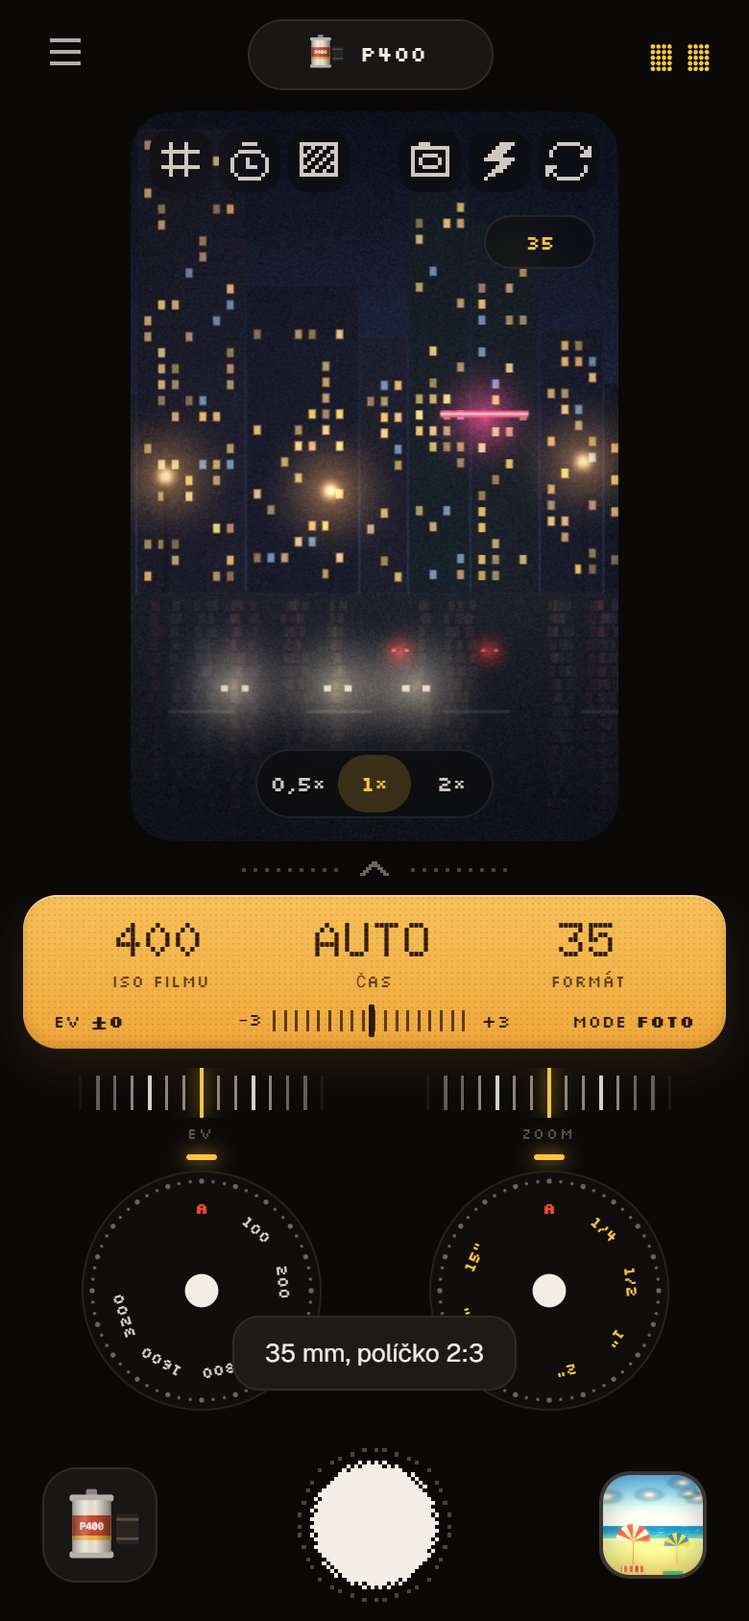
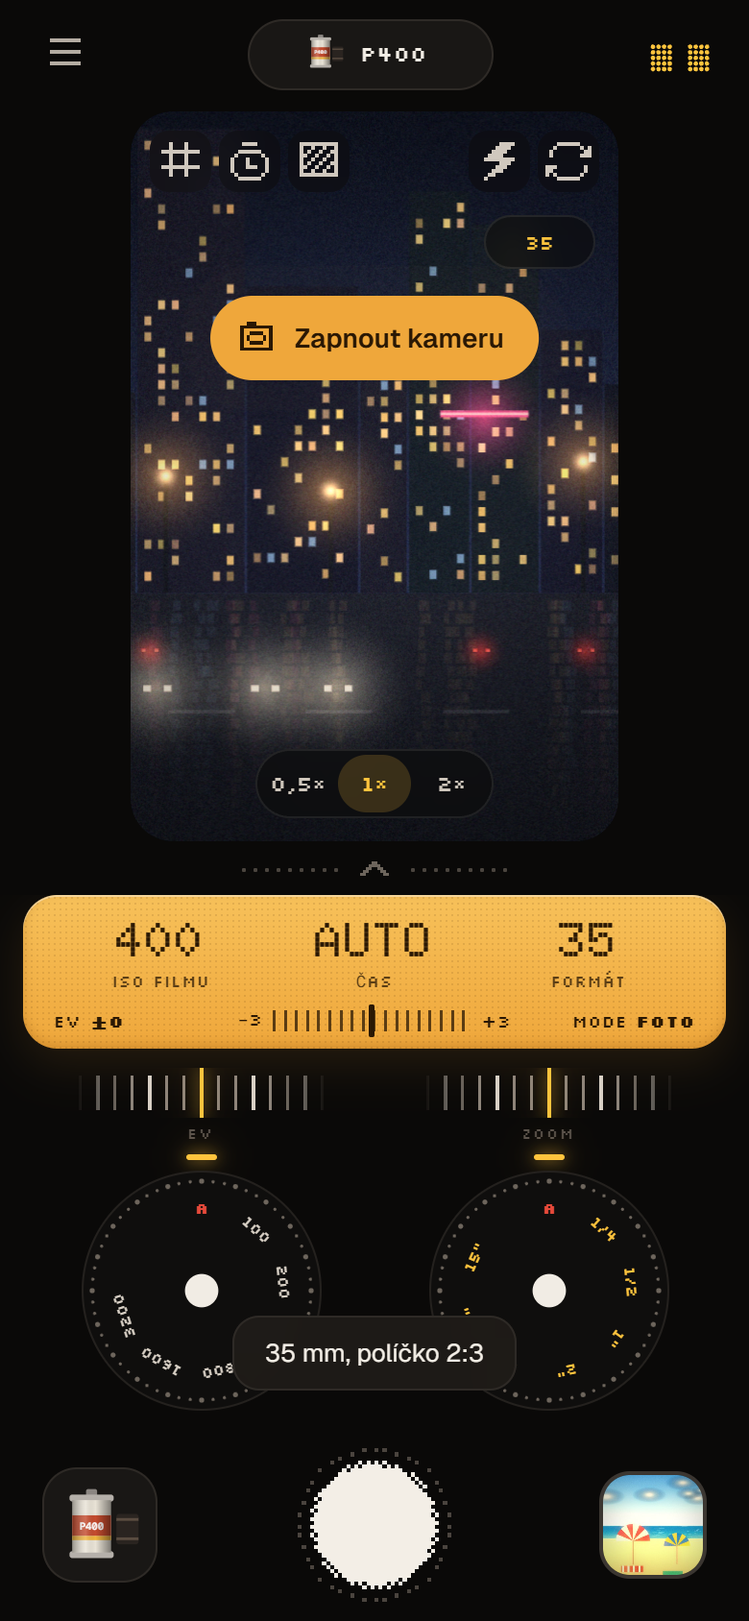
Náhled 0.7.1: méně paměti, plynulejší hloubka, úpravy blobu a kamery
- fotky v paměti max 2048 px, export z originálu (iPhone 13 padal)
- hloubka: bez 3D, na pomalém telefonu přepočet po puštění posuvníku s načítáním, skutečné fáze načítání modelu, trvalé úložiště
- pryč rám Negativ a Datumovka
- blob: paleta jen po filmu, kostka neposkakuje, dissolve bez pruhu (šum jako obrázek), Text zap/vyp, Uložit blob, Export
- spodní lišta na iPhonu přes celou výšku (bez brady)
- Úpravy bez nápovědy, výrazné tlačítko Zapnout kameru

diff --git a/docs/preview/index.html b/docs/preview/index.html
@@ -82,7 +82,8 @@ a{color:var(--amber)}
   html,body{background:#000}
   .shell{display:block;position:fixed;inset:0}
   .nav{display:none}
-  .stage{position:fixed;inset:0;height:auto;background:#000}
+  .stage{position:fixed;left:0;right:0;top:0;height:100vh;height:100lvh;background:#000}
+  .shell{height:100vh;height:100lvh}
   .device{left:0;top:0;width:100%!important;height:100%!important;transform:none!important}
   .bezel,.island,.status{display:none}
   .phone{border-radius:0}
@@ -144,6 +145,9 @@ a{color:var(--amber)}
 .sw2{width:28px;height:28px;border-radius:8px;flex:none;box-shadow:inset 0 0 0 1px rgba(255,255,255,.12);position:relative;overflow:hidden}
 .sw2.on{box-shadow:0 0 0 2px var(--body),0 0 0 4px var(--fg)}
 .sw2 input{position:absolute;inset:0;opacity:0}
+.campill{position:absolute;left:50%;top:96px;transform:translateX(-50%);z-index:5;display:flex;align-items:center;gap:10px;height:44px;padding:0 18px 0 14px;border-radius:999px;background:var(--lcd);color:var(--lcd-ink);font-weight:600;font-size:14px;white-space:nowrap;box-shadow:0 0 0 0 rgba(255,196,61,.55);animation:campulse 2.2s ease-out infinite}
+.campill .px{width:20px;height:20px}
+@keyframes campulse{0%{box-shadow:0 0 0 0 rgba(255,196,61,.5)}70%{box-shadow:0 0 0 16px rgba(255,196,61,0)}100%{box-shadow:0 0 0 0 rgba(255,196,61,0)}}
 .cambanner{position:absolute;left:50%;top:10px;transform:translateX(-50%);z-index:5;display:flex;align-items:center;gap:10px;padding:5px 5px 5px 14px;border-radius:999px;background:rgba(10,9,8,.75);border:1px solid rgba(255,196,61,.4);font-size:12px;white-space:nowrap}
 .cambanner button{height:28px;padding:0 12px;border-radius:999px;background:var(--lcd);color:var(--lcd-ink);font-weight:600;font-size:12px}
 /* správce filmů */
@@ -352,8 +356,14 @@ a{color:var(--amber)}
 .ecanvas canvas{display:block;width:100%;height:100%}
 #eGlow,#pcGlow{position:absolute;inset:0;width:100%;height:100%;display:none}
 #eDate{position:absolute;left:0;top:0;pointer-events:none}
+.eload{position:absolute;left:50%;top:50%;transform:translate(-50%,-50%) scale(.9);z-index:4;display:flex;align-items:center;gap:10px;height:40px;padding:0 16px;border-radius:999px;background:rgba(10,9,8,.72);backdrop-filter:blur(10px);-webkit-backdrop-filter:blur(10px);font:11px var(--f-mono);letter-spacing:.14em;text-transform:uppercase;color:#d0c8be;opacity:0;pointer-events:none;transition:opacity .15s,transform .2s}
+.eload.on{opacity:1;transform:translate(-50%,-50%) scale(1)}
+.eload i{width:14px;height:14px;border-radius:50%;border:2px solid rgba(255,196,61,.25);border-top-color:var(--amber);animation:spin .7s linear infinite}
+@keyframes spin{to{transform:rotate(360deg)}}
 .dprog{height:6px;border-radius:3px;background:var(--line);overflow:hidden;flex:1}
 .dprog i{display:block;height:100%;background:var(--amber);width:0;transition:width .2s}
+.dprog.ind i{width:35%!important;animation:dind 1.1s ease-in-out infinite alternate}
+@keyframes dind{from{transform:translateX(-20%)}to{transform:translateX(205%)}}
 .fxp .note{font-size:11.5px;color:var(--mute);line-height:1.45;margin:0}
 .fxp .go{height:40px;padding:0 16px;border-radius:12px;background:var(--lcd);color:var(--lcd-ink);font-weight:600;font-size:13px}
 .ecanvas.framed{background:#0a0a0d;border-radius:0;box-shadow:none}
@@ -540,7 +550,7 @@ input[type=range]:hover::-webkit-slider-thumb{background:#fff}
 .bpresets button{flex:none;height:52px;border-radius:14px;background:var(--panel);border:1px solid var(--line);display:flex;align-items:center;gap:8px;padding:0 12px 0 6px;font-family:var(--f-mono);font-size:10.5px;color:#cfc7bc}
 .bpresets svg{width:32px;height:40px;border-radius:7px;flex:none}
 .bpresets .save{padding:0 14px;color:var(--amber);border-color:rgba(255,196,61,.4)}
-.bbar{flex:none;display:flex;justify-content:center;gap:10px;padding-top:12px;border-top:1px solid #1a1b1f;background:#0B0C0E}
+.bbar{flex:none;display:flex;justify-content:center;align-items:center;gap:8px;padding-top:12px;border-top:1px solid #1a1b1f;background:#0B0C0E}
 .pbtn.sm{padding:8px 14px}
 .pbtn{padding:11px 18px;border-radius:14px;background:var(--lcd);color:var(--lcd-ink);font-weight:600;font-size:13px}
 .pbtn.ghost{background:transparent;color:var(--fg);box-shadow:inset 0 0 0 1.5px #3d3731;font-weight:500}
@@ -597,7 +607,7 @@ input[type=range]:hover::-webkit-slider-thumb{background:#fff}
 <body>
 <div class="shell" id="shell">
   <aside class="nav">
-    <div class="brand">QAMERA<small>Náhled 0.7</small></div>
+    <div class="brand">QAMERA<small>Náhled 0.7.1</small></div>
     <div>
       <div class="navlabel">Zobrazení</div>
       <div class="seg" id="viewSeg"><button class="on" data-v="m">MOBIL 390×844</button><button data-v="pc">PC 1440×900</button></div>
@@ -638,6 +648,7 @@ input[type=range]:hover::-webkit-slider-thumb{background:#fff}
             <button class="fmtbadge" id="fmtBadge" aria-label="Přepnout formát">3:4</button>
             <div class="fmtbadge dbl" id="dblBadge" hidden>DOUBLE 1/2</div>
             <div class="hud" id="hud" hidden></div>
+            <button class="campill" id="camPill" hidden><span class="px-wrap" data-ic="camera"></span>Zapnout kameru</button>
             <div class="cambanner" id="camBanner" hidden><span>Druhá expozice pro Double</span><button id="camBannerBack">Zpět</button></div>
             <div class="pills">
               <span class="pill" id="pIso">ISO 400</span>
@@ -772,14 +783,13 @@ input[type=range]:hover::-webkit-slider-thumb{background:#fff}
           <div class="bscroll">
             <div class="bcard" id="bCard"><svg id="bSvg" viewBox="0 0 100 125" preserveAspectRatio="none"></svg><div class="lbl" id="bLbl"><span id="bL" contenteditable="true" spellcheck="false"></span><span id="bR" contenteditable="true" spellcheck="false"></span></div></div>
             <div class="palette" id="bPal"></div>
-            <div class="brow"><div class="seg" id="bPalSeg"><button data-p="pre">PALETA PŘED</button><button data-p="post" class="on">PO FILMU</button></div></div>
             <div class="brow"><button class="pbtn ghost sm" id="bInv">Obrátit</button><div class="seg" id="bBlend"><button data-b="normal" class="on">NORMÁL</button><button data-b="screen">SCREEN</button><button data-b="glow">GLOW</button></div></div>
             <div class="bsl"><label class="srow"><span>Dissolve</span><input type="range" id="bDis" min="0" max="100" value="0" data-def="0"><output>0</output></label>
               <label class="srow"><span>Velikost</span><input type="range" id="bSize" min="40" max="160" value="100" data-def="100"><output id="bSizeO">100</output></label></div>
             <div><div class="bh">TVARY</div><div class="shapes hs" id="bShapes"></div></div>
             <div><div class="bh">PRESETY</div><div class="bpresets hs" id="bPresets"></div></div>
           </div>
-          <div class="bbar pb"><button class="pbtn ghost" id="bPaper">Tečky: zap</button><button class="pbtn" id="bShare">Sdílet kartu</button></div>
+          <div class="bbar pb"><button class="pbtn ghost" id="bText">Text: zap</button><button class="pbtn ghost" id="bSave">Uložit blob</button><button class="pbtn" id="bShare">Export</button></div>
         </section>
 
         <!-- SPRÁVCE FILMŮ -->
@@ -792,7 +802,7 @@ input[type=range]:hover::-webkit-slider-thumb{background:#fff}
         <section class="scr pt" id="s-about" hidden>
           <div class="top"><button class="ib" data-back aria-label="Zpět" data-ic="back"></button><span class="title">O appce</span><span style="width:40px"></span></div>
           <div class="about">
-            <div class="hero"><div class="lens"><svg class="eyes" id="aboutEyes" viewBox="14 24 92 72"></svg></div><h2>QAMERA</h2><div class="ver">NÁHLED 0.7</div></div>
+            <div class="hero"><div class="lens"><svg class="eyes" id="aboutEyes" viewBox="14 24 92 72"></svg></div><h2>QAMERA</h2><div class="ver">NÁHLED 0.7.1</div></div>
             <div class="card"><h3>Poděkování</h3>
               <p><a href="https://github.com/thetechgeekko/Spektrafilm-android" target="_blank" rel="noopener">Spektrafilm for Android</a> by <b>Akshay Sharma</b></p>
               <p>Film modeling powered by <a href="https://github.com/andreavolpato/spektrafilm" target="_blank" rel="noopener">spektrafilm</a> (Andrea Volpato)</p>
@@ -1150,7 +1160,7 @@ async function liveOn() {
 }
 function liveStop() { if (CAM.stream) CAM.stream.getTracks().forEach(t => t.stop()); CAM.stream = null; CAM.track = null; }
 function liveOff() { liveStop(); CAM.live = false; CAM.deviceId = null; CAM.ultra = false; LIVE.w = 480; LIVE.h = 640; LIVE.canvas = mk(480, 640); updLive(); }
-function updLive() { $('#liveBtn').hidden = CAM.live; }
+function updLive() { $('#liveBtn').hidden = CAM.live || !store.get('cam', false) && !store.get('camAsked', false); $('#camPill').hidden = CAM.live || store.get('camAsked', false); }
 async function setTorch(on) { if (!CAM.track || !CAM.caps.torch) return false; try { await CAM.track.applyConstraints({ advanced: [{ torch: on }] }); return true; } catch { return false; } }
 function renderCamInfo() {
   const el = $('#camInfo'); if (!el) return;
@@ -1208,7 +1218,7 @@ void main(){
     float coc = clamp((abs(dep - uFocus) - .035) * 2.6, 0., 1.) * uDAmt;
     if (coc > .004) { vec2 ts = vec2(textureSize(uTex,0)); vec2 rad = vec2(ts.y/ts.x, 1.) * coc * .05; float lod = max(0., log2(coc * .05 * ts.y / 7.));
       vec3 acc = vec3(0.); float ws = 0.;
-      for (int i = 0; i < 40; i++) { float fi = float(i), rr = sqrt((fi + .5) / 40.), a = fi * 2.39996; vec2 sp = uv + vec2(cos(a), sin(a)) * rr * rad;
+      for (int i = 0; i < 28; i++) { float fi = float(i), rr = sqrt((fi + .5) / 28.), a = fi * 2.39996; vec2 sp = uv + vec2(cos(a), sin(a)) * rr * rad;
         vec3 sc = textureLod(uTex, sp, lod).rgb; float sd = textureLod(uDepth, sp, 0.).r; float w = (1. + pow(luma(sc), 5.) * 10.) * (sd > dep + .12 ? .25 : 1.); acc += sc * w; ws += w; }
       col = mix(col, acc / ws, smoothstep(0., .18, coc)); } }
   if (uSharp > 0.) { vec2 px = 1./vec2(textureSize(uTex,0)); vec3 bl = (texture(uTex,uv+vec2(px.x,0)).rgb+texture(uTex,uv-vec2(px.x,0)).rgb+texture(uTex,uv+vec2(0,px.y)).rgb+texture(uTex,uv-vec2(0,px.y)).rgb)*.25; col += (col-bl)*uSharp*1.5; }
@@ -1979,13 +1989,15 @@ let uidN = 0; const uid = () => Date.now() * 10 + (uidN++ % 10);
 const DBP = { p: null };
 function idb() { return DBP.p || (DBP.p = new Promise((res, rej) => { const r = indexedDB.open('qamera', 1); r.onupgradeneeded = () => r.result.createObjectStore('photos', { keyPath: 'id' }); r.onsuccess = () => res(r.result); r.onerror = () => rej(r.error); })); }
 function keep(ph) { ph.saved = true; dbPut(ph); return ph; }
-async function dbPut(ph) { if (!ph || !ph.saved) return; try { if (!ph.blob) ph.blob = await new Promise(r => ph.src.toBlob(r, 'image/jpeg', .93)); const db = await idb();
+const WORK = 2048; // pracovní rozlišení v paměti – plné 12 Mpx fotky by iPhone neudržel
+function shrink(c, m = WORK) { const k = m / Math.max(c.width, c.height); if (k >= 1) return c; const o = mk(Math.round(c.width * k), Math.round(c.height * k)); o.getContext('2d').drawImage(c, 0, 0, o.width, o.height); return o; }
+async function dbPut(ph) { if (!ph || !ph.saved) return; try { if (!ph.blob) ph.blob = await new Promise(r => ph.src.toBlob(r, 'image/jpeg', .93)); if (Math.max(ph.src.width, ph.src.height) > WORK) { ph.src = shrink(ph.src); ph._dxKey = null; } const db = await idb();
   db.transaction('photos', 'readwrite').objectStore('photos').put({ id: ph.id, kind: ph.kind, tags: ph.tags, date: +ph.date, P: ph.P, blob: ph.blob, depth: ph.depthBlob || null }); } catch {} }
 async function dbDel(id) { try { const db = await idb(); db.transaction('photos', 'readwrite').objectStore('photos').delete(id); } catch {} }
 async function dbLoad() {
   try { const db = await idb(), all = await new Promise((res, rej) => { const r = db.transaction('photos').objectStore('photos').getAll(); r.onsuccess = () => res(r.result); r.onerror = () => rej(r.error); });
     all.sort((a, b) => a.date - b.date);
-    for (const it of all) { const bmp = await createImageBitmap(it.blob), c = mk(bmp.width, bmp.height); c.getContext('2d').drawImage(bmp, 0, 0);
+    for (const it of all) { const bmp = await createImageBitmap(it.blob), k = Math.min(1, WORK / Math.max(bmp.width, bmp.height)), c = mk(Math.round(bmp.width * k), Math.round(bmp.height * k)); c.getContext('2d').drawImage(bmp, 0, 0, c.width, c.height); bmp.close && bmp.close();
       if (it.roll) { const sh = { id: it.id, src: c, P: Object.assign(DEF(), it.P), date: new Date(it.date), roll: it.roll, blob: it.blob }; // snímek z jednorázovky / zamčené role
         if (it.roll === 'active' && S.dispo) S.dispo.shots.push(sh); else { const ro = ROLLS.find(r => r.id === it.roll); if (ro) ro.shots.push(sh); } continue; }
       const ph = addPhoto(c, Object.assign(DEF(), it.P), it.kind, it.tags, false, it.id); ph.date = new Date(it.date); ph.saved = true; ph.blob = it.blob; if (it.kind === 'arch') ph.film = 'ARCH';
@@ -2083,7 +2095,7 @@ async function importFiles(files) {
   for (const f of files) {
     try { const url = URL.createObjectURL(f), img = new Image(); img.src = url; await img.decode();
       const k = Math.min(1, 2048 / Math.max(img.naturalWidth, img.naturalHeight)), c = mk(Math.round(img.naturalWidth * k), Math.round(img.naturalHeight * k)); c.getContext('2d').drawImage(img, 0, 0, c.width, c.height); URL.revokeObjectURL(url);
-      const P = DEF(); P.film = S.film; const ph = addPhoto(c, P, 'import', ['import', 'moje'], true, uid()); ph.date = new Date(f.lastModified || Date.now()); keep(ph); n++; } catch {}
+      const P = DEF(); P.film = S.film; const ph = addPhoto(c, P, 'import', ['import', 'moje'], true, uid()); ph.date = new Date(f.lastModified || Date.now()); if (/^image\/(jpeg|png|webp)$/.test(f.type)) ph.blob = f; keep(ph); n++; } catch {}
   }
   if (n) { filterGallery(); $('#galThumb').src = S.photos[0].thumb; toast(n === 1 ? 'Fotka přidaná s filmem ' + S.film : `${n} fotek přidáno s filmem ${S.film}`); }
   else toast('Fotku se nepodařilo načíst');
@@ -2161,7 +2173,7 @@ function showArch(photos, title, film, opt = {}) {
 }
 /* prohlížeč obrázku: pinch / kolečko = zoom, tažení = posun, dvojťuk = 1× / 2,5× */
 function viewImage(src, ph) {
-  const el = document.createElement('div'); el.className = 'zoomv'; el.innerHTML = `<canvas></canvas><button class="zx" aria-label="Zavřít">${iconSVG('x')}</button>${ph ? '<button class="zsh">Uložit / sdílet</button>' : ''}`;
+  const el = document.createElement('div'); el.className = 'zoomv'; el.innerHTML = `<canvas></canvas><button class="zx" aria-label="Zavřít">${iconSVG('x')}</button>${ph ? '<button class="zsh">Export</button>' : ''}`;
   $('#phone').appendChild(el); const cv = $('canvas', el); cv.width = src.width; cv.height = src.height; cv.getContext('2d').drawImage(src, 0, 0);
   const W = el.clientWidth, H = el.clientHeight, k0 = Math.min(W / src.width, H / src.height); let z = { s: k0, x: (W - src.width * k0) / 2, y: (H - src.height * k0) / 2 };
   const apply = () => cv.style.transform = `translate(${z.x}px,${z.y}px) scale(${z.s})`; apply();
@@ -2187,8 +2199,9 @@ function viewImage(src, ph) {
    ===================================================================== */
 let edE, edRaf = 0, before = false;
 const PANEL_H = 186;
+function cleanP(P) { if (P.frame && !FRAMES[P.frame]) P.frame = null; P.date = null; if (P.depth && P.depth.mode === 'par') P.depth.mode = 'bokeh'; return P; } // zrušené efekty
 function openEditor(ph, fromImg) {
-  stopPar(); S.cur = ph; S.fxOpen = null; S.P = JSON.parse(JSON.stringify(ph.P)); S.cur._last = JSON.parse(JSON.stringify(ph.P)); S.hist = []; S.fut = [];
+  stopPar(); S.cur = ph; S.fxOpen = null; cleanP(ph.P); S.P = JSON.parse(JSON.stringify(ph.P)); S.cur._last = JSON.parse(JSON.stringify(ph.P)); S.hist = []; S.fut = [];
   edE.setSource(srcOf(ph, S.P));
   go('editor');
   setTab(S.tab, true);
@@ -2219,7 +2232,8 @@ function layoutEditor() {
 }
 function edOpts(extra = {}) { const cr = S.P.crop; return { bypass: before, zoom: cr.s, offX: cr.x, offY: cr.y, rot: cr.rot * Math.PI / 180, transfer: S.P.tr ? transferFor() : null, depth: S.cur && S.cur.depth, par: S.par, ...extra }; }
 function renderEd(now) {
-  const run = () => { edRaf = 0; if (!S.cur) return; edE.render(S.P, edOpts()); if (S.P.frame && S._fr && !S._parAnim) { const wr = $('#eWrap'); frameBg($('#eGlow'), edE.c, wr.clientWidth, wr.clientHeight, S._fr, 0, S.P, S.cur); } dateOverlay(); if (S.adv) drawHist(); if (S.view === 'pc') renderPc(); };
+  const run = () => { edRaf = 0; if (!S.cur) return; const t0 = performance.now(); edE.render(S.P, edOpts());
+    if (S.P.depth && S.cur.depth && S.P.depth.mode !== 'map') { const g = edE.gl; g.readPixels(0, 0, 1, 1, g.RGBA, g.UNSIGNED_BYTE, new Uint8Array(4)); const ms = performance.now() - t0; S.depthMs = S.depthMs ? S.depthMs * .6 + ms * .4 : ms; } if (S.P.frame && S._fr && !S._parAnim) { const wr = $('#eWrap'); frameBg($('#eGlow'), edE.c, wr.clientWidth, wr.clientHeight, S._fr, 0, S.P, S.cur); } dateOverlay(); if (S.adv) drawHist(); if (S.view === 'pc') renderPc(); };
   if (now) { cancelAnimationFrame(edRaf); run(); return; }
   if (edRaf) return; edRaf = requestAnimationFrame(run);
 }
@@ -2245,7 +2259,7 @@ function glowFrame(cv, src, cw, ch, rect, scale) {
   const rg = g.createRadialGradient(ix + iw / 2, iy + ih * .55, M * .5, ix + iw / 2, iy + ih * .55, Math.hypot(W, H) * .6); rg.addColorStop(0, 'rgba(8,8,10,0)'); rg.addColorStop(1, 'rgba(8,8,10,.75)'); g.fillStyle = rg; g.fillRect(0, 0, W, H);
 }
 /* geometrie rámu: rozměr plátna (vejde se do MW × MH) a místo fotky v něm */
-const FRAMES = { glow: { l: 'Glow', pad: .72 }, neg: { l: 'Negativ', pad: .8 }, inst: { l: 'Instant', pad: .88 } };
+const FRAMES = { glow: { l: 'Glow', pad: .72 }, inst: { l: 'Instant', pad: .88 } };
 function frameGeom(P, par, MW, MH) {
   const fo = P.fo || { pad: FRAMES[P.frame].pad, ar: 0 }; let A, rel;
   if (P.frame === 'inst') { const m = (1 - fo.pad) / 2 / fo.pad, cw = 1 + 2 * m, chh = 1 / par + m * 4.2; A = cw / chh; rel = { x: m / cw, y: m / chh, w: 1 / cw, h: 1 / par / chh }; } // instantní fotka: dole široký okraj
@@ -2309,8 +2323,10 @@ async function exportCanvas(c, name) {
   try { if (isMobile() && navigator.canShare && navigator.canShare({ files: [file] })) { await navigator.share({ files: [file], title: 'Qamera' }); return toast('Hotovo'); } } catch (e) { if (e && e.name === 'AbortError') return; }
   const a = document.createElement('a'); a.href = URL.createObjectURL(blob); a.download = name; document.body.appendChild(a); a.click(); setTimeout(() => { URL.revokeObjectURL(a.href); a.remove(); }, 1500); toast('Fotka stažená');
 }
-function renderFull(ph, P) {
-  const src = srcOf(ph, P), ar = P.crop.ar || src.width / src.height, max = Math.min(util.e.gl.getParameter(util.e.gl.MAX_TEXTURE_SIZE), 4096);
+async function renderFull(ph, P) {
+  let src = srcOf(ph, P);
+  if (src === ph.src && ph.blob) { try { const bm = await createImageBitmap(ph.blob), k = Math.min(1, 4096 / Math.max(bm.width, bm.height)), c = mk(Math.round(bm.width * k), Math.round(bm.height * k)); c.getContext('2d').drawImage(bm, 0, 0, c.width, c.height); bm.close && bm.close(); src = c; } catch {} } // export z originálu
+  const ar = P.crop.ar || src.width / src.height, max = Math.min(util.e.gl.getParameter(util.e.gl.MAX_TEXTURE_SIZE), 4096);
   let w = Math.round(Math.min(src.width, max)), h = Math.round(w / ar); if (h > max) { h = max; w = Math.round(h * ar); }
   const cr = P.crop, o = utilRender(src, P, w, h, { zoom: cr.s, offX: cr.x, offY: cr.y, rot: cr.rot * Math.PI / 180, transfer: P.tr ? transferFor() : null, seed: 7, depth: ph.depth });
   const c = copyCanvas(o); if (P.date) drawDate(c.getContext('2d'), c.width, c.height, ph.date, P.date); return framed(c, P, ph);
@@ -2354,7 +2370,7 @@ function exportLook(kind) {
 <!-- Základní posuvníky. Přesný vzhled filmu je v .cube (Lightroom: vlastní profil, Photoshop: Color Lookup). -->`;
   saveFile(base + '.xmp', xmp, 'application/rdf+xml');
 }
-async function exportPhoto() { if (!S.cur) return; toast('Připravuju fotku v plném rozlišení…'); await new Promise(r => setTimeout(r, 50)); const c = renderFull(S.cur, S.P); exportCanvas(c, `qamera-${S.P.film}-${Date.now()}.jpg`); }
+async function exportPhoto() { if (!S.cur) return; toast('Připravuju fotku v plném rozlišení…'); await new Promise(r => setTimeout(r, 50)); const c = await renderFull(S.cur, S.P); exportCanvas(c, `qamera-${S.P.film}-${Date.now()}.jpg`); }
 function commit() { S.hist.push(JSON.stringify(S.cur._last || S.cur.P)); if (S.hist.length > 60) S.hist.shift(); S.fut = []; S.cur._last = JSON.parse(JSON.stringify(S.P)); S.cur.P = JSON.parse(JSON.stringify(S.P)); rethumb(S.cur); dbPut(S.cur); }
 function undo() { if (!S.hist.length) return toast('Není co vracet'); S.fut.push(JSON.stringify(S.P)); S.P = JSON.parse(S.hist.pop()); syncCur(); }
 function redo() { if (!S.fut.length) return; S.hist.push(JSON.stringify(S.P)); S.P = JSON.parse(S.fut.pop()); syncCur(); }
@@ -2416,7 +2432,7 @@ function setTab(t, quiet) {
     requestAnimationFrame(() => { const on = $('.fthumb.on'), s = $('#fStrip'); if (on && s) s.scrollLeft = on.offsetLeft - s.clientWidth / 2 + on.offsetWidth / 2; });
   } else if (t === 'adj') {
     const a = ADJ.find(x => x.k === S.adjKey), dv = x => x.film ? FILM[S.P.film].gl : (x.def || 0), vv = x => S.P[x.k] ?? dv(x);
-    const ctx = a.k === 'grain' ? `<div class="gt hs" id="gtRow">${grainPills()}</div>` : `<small>Dvojklik na stupnici vrátí výchozí hodnotu</small>`;
+    const ctx = a.k === 'grain' ? `<div class="gt hs" id="gtRow">${grainPills()}</div>` : `<span></span>`;
     p.innerHTML = `<div class="ctx">${ctx}<button class="resetbtn" id="resetAll">${iconSVG('reset')}Vše</button></div><div class="ruler" id="adjR"></div><div class="chips" id="chipRow">${ADJ.map(x => `<button class="chip ${x.k === S.adjKey ? 'on' : ''} ${Math.abs(vv(x) - dv(x)) > .001 ? 'mod' : ''}" data-k="${x.k}">${iconSVG(x.ic)}${x.l}</button>`).join('')}</div>`;
     makeRuler($('#adjR'), { min: a.min, max: a.max, step: a.step, value: vv(a), label: a.l, fmt: a.f, def: dv(a), onInput: v => { S.P[a.k] = v; renderEd(); $(`.chip[data-k="${a.k}"]`).classList.toggle('mod', Math.abs(v - dv(a)) > .001); }, onEnd: commit });
     $$('.chip', p).forEach(b => b.onclick = () => { const sl = $('#chipRow').scrollLeft; S.adjKey = b.dataset.k; setTab('adj', true); $('#chipRow').scrollLeft = sl; });
@@ -2432,7 +2448,7 @@ function setTab(t, quiet) {
   } else if (t === 'fx' && S.fxOpen) { renderFxPanel(p);
   } else if (t === 'fx') {
     const fx = [['scan', 'Film scan', 'ref'], ['double', 'Double', 'double'], ['dither', 'Dither', 'dither'], ['pixel', 'Pixel art', 'pixel'], ['frame', 'Rám', 'frame'],
-      ['depth', 'Hloubka', 'depth'], ['date', 'Datumovka', 'date'], ['recipe', 'Recepty', 'recipe'], ['blob', 'Blob karta', 'blob']]; // co jde nastavit v Úpravách, tady není
+      ['depth', 'Hloubka', 'depth'], ['recipe', 'Recepty', 'recipe'], ['blob', 'Blob karta', 'blob']]; // co jde nastavit v Úpravách, tady není
     const st = S.P.style && S.P.style.type, on = k => (k === 'glowfx' && (S.P.glow ?? 0) > .45) || (k === 'sharp' && S.P.sharp) || (k === 'scan' && S.P.tr) || (k === 'double' && S.P.dx && S.P.dx.other) || (k === 'dither' && st === 'dither') || (k === 'pixel' && st === 'pixel') || (k === 'frame' && S.P.frame) || (k === 'depth' && S.P.depth) || (k === 'date' && S.P.date);
     p.innerHTML = `<div class="fx hs" id="fxRow">${fx.map(([k, l, ic, e]) => `<button data-fx="${k}" class="${on(k) ? 'on' : ''}">${iconSVG(ic)}${l}${e ? `<em>${e}</em>` : ''}</button>`).join('')}</div>`;
     hscroll($('#fxRow'));
@@ -2477,10 +2493,10 @@ function renderFxPanel(p) {
       <label class="srow"><span>${dith ? 'Hustota' : 'Pixely'}</span><input type="range" id="fxCells" min="${dith ? 80 : 40}" max="${dith ? 420 : 220}" value="${st.cells}" data-def="${dith ? 240 : 110}"><output>${st.cells}</output></label>
       ${dith ? `<label class="srow"><span>Úrovně</span><input type="range" id="fxLev" min="2" max="4" value="${st.levels}" data-def="2"><output>${st.levels}</output></label>` : ''}`; }
   else if (k === 'depth') { const d = S.P.depth, ready = !!S.cur.depth;
-    body = !ready ? `<div class="fxrow"><div class="dprog"><i id="dpBar" style="width:${Math.round((DEPTH.prog || 0) * 100)}%"></i></div><span id="dpPct" style="font:11px var(--f-mono);color:var(--mute);width:42px;text-align:right">${Math.round((DEPTH.prog || 0) * 100)} %</span></div>
-      <p class="note" id="dpNote">${DEPTH.err ? 'Hloubku se nepodařilo spočítat: ' + DEPTH.err : DEPTH.pipe ? 'Počítám hloubku fotky…' : 'Poprvé se stáhne model Depth Anything V2 Small (asi 25 MB), pak funguje i offline. Fotka zůstává v telefonu.'}</p>${DEPTH.err ? '<button class="go" id="dpRetry">Zkusit znovu</button>' : ''}`
-    : `<div class="fxrow"><div class="seg" id="fxDm">${[['bokeh', 'BOKEH'], ['fog', 'MLHA'], ['par', '3D'], ['map', 'MAPA']].map(([m, l]) => `<button data-m="${m}" class="${d.mode === m ? 'on' : ''}">${l}</button>`).join('')}</div></div>
-      ${d.mode === 'map' ? '' : `<label class="srow"><span>${d.mode === 'par' ? 'Hloubka' : 'Síla'}</span><input type="range" id="fxDa" min="0" max="100" value="${Math.round(d.amt * 100)}" data-def="70"><output>${Math.round(d.amt * 100)}</output></label>
+    body = !ready ? `<div class="fxrow"><div class="dprog ${DEPTH.phase === 'dl' ? '' : DEPTH.err ? '' : 'ind'}"><i id="dpBar" style="width:${DEPTH.phase === 'dl' ? Math.round(DEPTH.prog * 100) : 0}%"></i></div></div>
+      <p class="note" id="dpNote">${depthText()}</p>${DEPTH.err ? '<button class="go" id="dpRetry">Zkusit znovu</button>' : ''}`
+    : `<div class="fxrow"><div class="seg" id="fxDm">${[['bokeh', 'BOKEH'], ['fog', 'MLHA'], ['map', 'MAPA']].map(([m, l]) => `<button data-m="${m}" class="${d.mode === m ? 'on' : ''}">${l}</button>`).join('')}</div></div>
+      ${d.mode === 'map' ? '' : `<label class="srow"><span>Síla</span><input type="range" id="fxDa" min="0" max="100" value="${Math.round(d.amt * 100)}" data-def="70"><output>${Math.round(d.amt * 100)}</output></label>
       <label class="srow"><span>${d.mode === 'fog' ? 'Začátek' : 'Ostření'}</span><input type="range" id="fxDf" min="0" max="100" value="${Math.round(d.focus * 100)}" data-def="80"><output>${Math.round(d.focus * 100)}</output></label>`}`; }
   else if (k === 'date') { const d = S.P.date;
     body = `<div class="fxrow"><div class="seg" id="fxDf2">${DATEF.map(([l], i) => `<button data-f="${i}" class="${(d.f || 0) === i ? 'on' : ''}">${l}</button>`).join('')}</div></div>
@@ -2503,8 +2519,10 @@ function renderFxPanel(p) {
     $$('#fxPal [data-p]').forEach(b => b.onclick = () => { const q = b.dataset.p; st.pn = q; st.pal = dith ? (q === 'photo' ? photoPal(2) : DPALS[q]) : photoPal(+q.replace('photo', '') || 6); $$('#fxPal [data-p]').forEach(x => x.classList.toggle('on', x === b)); renderEd(true); commit(); buzz(4); });
     rng('#fxCells', v => { st.cells = v; renderEd(); }); rng('#fxLev', v => { st.levels = v; renderEd(); }); }
   if (k === 'depth') { const d = S.P.depth; const rt = $('#dpRetry'); if (rt) rt.onclick = () => { DEPTH.err = null; runDepth(); setTab('fx', true); };
-    $$('#fxDm button').forEach(b => b.onclick = () => { d.mode = b.dataset.m; if (d.mode === 'par') startPar(); else stopPar(); renderEd(true); commit(); setTab('fx', true); buzz(4); });
-    rng('#fxDa', v => { d.amt = v / 100; renderEd(); }); rng('#fxDf', v => { d.focus = v / 100; d.fset = 1; renderEd(); }); if (S.cur.depth && d.mode === 'par') startPar(); }
+    $$('#fxDm button').forEach(b => b.onclick = () => { d.mode = b.dataset.m; heavyRender(); commit(); setTab('fx', true); buzz(4); });
+    const live = () => S.depthMs < 45; // stihne telefon přepočet během tažení?
+    const dr = (id, f) => { const i = $(id); if (!i) return; paintRange(i); i.oninput = () => { i.nextElementSibling.textContent = i.value; paintRange(i); f(+i.value); if (live()) renderEd(); }; i.onchange = () => { if (!live()) heavyRender(); commit(); }; };
+    dr('#fxDa', v => d.amt = v / 100); dr('#fxDf', v => { d.focus = v / 100; d.fset = 1; }); }
   if (k === 'date') { const d = S.P.date;
     $$('#fxDf2 button').forEach(b => b.onclick = () => { d.f = +b.dataset.f; $$('#fxDf2 button').forEach(x => x.classList.toggle('on', x === b)); renderEd(true); commit(); buzz(4); });
     $$('.fxp [data-c]').forEach(b => b.onclick = () => { d.c = +b.dataset.c; $$('.fxp [data-c]').forEach(x => x.classList.toggle('on', x === b)); renderEd(true); commit(); buzz(4); }); }
@@ -2514,16 +2532,20 @@ function renderFxPanel(p) {
     rng('#fxPad', v => { fo.pad = 1 - v / 100; layoutEditor(); renderEd(true); }); }
 }
 /* hloubka: Depth Anything V2 Small (Apache-2.0) přes transformers.js, model se stáhne při prvním použití a zůstane v cache */
-const DEPTH = { pipe: null, loading: null, prog: 0, err: null };
+const DEPTH = { pipe: null, loading: null, prog: 0, err: null, phase: 'init', got: 0, tot: 0 };
 async function depthModel() {
   if (DEPTH.pipe) return DEPTH.pipe;
   if (!DEPTH.loading) DEPTH.loading = (async () => {
+    try { navigator.storage && navigator.storage.persist && navigator.storage.persist(); } catch {} // ať iOS model z cache nemaže
+    try { const c = await caches.open('transformers-cache'), ks = await c.keys(); DEPTH.cached = ks.some(k => k.url.includes('depth-anything') && k.url.includes('.onnx')); } catch {}
+    DEPTH.phase = DEPTH.cached ? 'cache' : 'dl'; depthUi();
     const T = DEPTH.T = await import('https://cdn.jsdelivr.net/npm/@huggingface/transformers@3.7.1/dist/transformers.min.js'); T.env.allowLocalModels = false;
-    const files = {}, progress_callback = e => { if (e.status === 'progress' && e.total) { files[e.file] = [e.loaded, e.total]; const v = Object.values(files); DEPTH.prog = v.reduce((a, x) => a + x[0], 0) / v.reduce((a, x) => a + x[1], 0) * .97; depthUi(); } };
+    const files = {}, progress_callback = e => { if (e.status === 'progress' && e.total && e.file.endsWith('.onnx') && !DEPTH.cached) { files[e.file] = [e.loaded, e.total]; const v = Object.values(files); DEPTH.got = v.reduce((a, x) => a + x[0], 0); DEPTH.tot = v.reduce((a, x) => a + x[1], 0); DEPTH.prog = DEPTH.got / DEPTH.tot; if (DEPTH.prog >= 1 && DEPTH.phase === 'dl') DEPTH.phase = 'init'; depthUi(); }
+      if (e.status === 'done' && e.file && e.file.endsWith('.onnx')) { DEPTH.phase = 'init'; depthUi(); } };
     const mk2 = (device, dtype) => T.pipeline('depth-estimation', 'onnx-community/depth-anything-v2-small', { device, dtype, progress_callback });
     let gpu = false; try { gpu = !!(navigator.gpu && await navigator.gpu.requestAdapter()); } catch {}
     try { DEPTH.pipe = gpu ? await mk2('webgpu', 'fp16') : await mk2('wasm', 'q8'); } catch (e) { if (!gpu) throw e; DEPTH.pipe = await mk2('wasm', 'q8'); }
-    return DEPTH.pipe; })();
+    DEPTH.phase = 'run'; depthUi(); return DEPTH.pipe; })();
   try { return await DEPTH.loading; } catch (e) { DEPTH.loading = null; throw e; }
 }
 async function computeDepth(ph) {
@@ -2532,8 +2554,11 @@ async function computeDepth(ph) {
   d.getContext('2d').drawImage(dc, 0, 0, d.width, d.height); ph.depth = d;
   const px = d.getContext('2d', { willReadFrequently: true }).getImageData(0, 0, d.width, d.height).data, hs = []; for (let i = 0; i < px.length; i += 16) hs.push(px[i]); hs.sort((a, b) => a - b); ph.dFocus = hs[Math.floor(hs.length * .9)] / 255; // výchozí ostření = nejbližší objekt ph.depthBlob = await new Promise(r => d.toBlob(r, 'image/png')); dbPut(ph); return d;
 }
-function depthUi() { const b = $('#dpBar'), t = $('#dpPct'); if (b) b.style.width = Math.round(DEPTH.prog * 100) + '%'; if (t) t.textContent = Math.round(DEPTH.prog * 100) + ' %'; const n = $('#dpNote'); if (n && DEPTH.pipe) n.textContent = 'Počítám hloubku fotky…'; }
-async function runDepth() { const ph = S.cur; if (!ph || ph._dRun) return; ph._dRun = true;
+const MB = b => (b / 1048576).toFixed(1).replace('.', ',');
+function depthText() { if (DEPTH.err) return 'Hloubku se nepodařilo spočítat: ' + DEPTH.err;
+  return { dl: DEPTH.tot ? `Stahuju model hloubky · ${MB(DEPTH.got)} / ${MB(DEPTH.tot)} MB (jen poprvé)` : 'Stahuju model hloubky (jen poprvé, asi 25 MB)…', cache: 'Načítám model z telefonu…', init: 'Připravuju model…', run: 'Počítám hloubku fotky…' }[DEPTH.phase] || 'Připravuju…'; }
+function depthUi() { const b = $('#dpBar'), n = $('#dpNote'); if (!b) return; const dl = DEPTH.phase === 'dl' && DEPTH.tot; b.parentNode.classList.toggle('ind', !dl); b.style.width = dl ? Math.round(DEPTH.prog * 100) + '%' : ''; if (n) n.textContent = depthText(); }
+async function runDepth() { const ph = S.cur; if (!ph || ph._dRun) return; ph._dRun = true; if (DEPTH.pipe) { DEPTH.phase = 'run'; depthUi(); }
   try { await computeDepth(ph); DEPTH.prog = 1; if (S.cur === ph) { if (S.P.depth && !S.P.depth.fset) { S.P.depth.focus = ph.dFocus; commit(); } renderEd(true); if (S.fxOpen === 'depth') setTab('fx', true); } rethumb(ph); toast('Hloubka je hotová'); buzz(10); }
   catch (e) { DEPTH.err = (e && e.message || 'chyba').slice(0, 80); if (S.cur === ph && S.fxOpen === 'depth') setTab('fx', true); }
   ph._dRun = false; }
@@ -2548,6 +2573,11 @@ async function startPar() { if (parRaf) return; S.par = [0, 0]; parBase = null;
     cur[0] += (tx - cur[0]) * .12; cur[1] += (ty - cur[1]) * .12; S.par = [cur[0], -cur[1]]; renderEd(true); parRaf = requestAnimationFrame(loop); };
   parRaf = requestAnimationFrame(loop); }
 function stopPar() { if (!parRaf) return; cancelAnimationFrame(parRaf); parRaf = 0; S.par = null; removeEventListener('deviceorientation', onTilt); $('#eWrap').removeEventListener('pointermove', onParMove); if (S.cur) renderEd(true); }
+/* náročný přepočet (hloubka): když ho telefon nestíhá živě, ukáže se načítání a počítá se jednou */
+S.depthMs = 0;
+function heavyRender() { if (S.depthMs < 45) { renderEd(true); return; } const w = $('#eWrap'); let l = $('.eload', w);
+  if (!l) { l = document.createElement('div'); l.className = 'eload'; l.innerHTML = '<i></i><span>Počítám</span>'; w.appendChild(l); }
+  l.classList.add('on'); requestAnimationFrame(() => requestAnimationFrame(() => { renderEd(true); setTimeout(() => l.classList.remove('on'), 120); })); }
 function photoPal(n) { const P = JSON.parse(JSON.stringify(S.P)); P.style = null; P.grain = 0; utilRender(srcOf(S.cur, S.P), P, 60, 75, {}); return kmeans(util.e.pixels(), n).map(c => '#' + rgbOf(c).map(v => v.toString(16).padStart(2, '0')).join('')); }
 const DPALS = { amber: ['#0B0C0E', '#F5C542'], lime: ['#050505', '#D4FF3A'], paper: ['#1b1a18', '#F2EFE8'], ir: ['#1a0d2e', '#ff4f8b'] };
 function styleActs() {
@@ -2879,7 +2909,7 @@ function renderShapes() {
 function renderPresets() {
   $('#bPresets').innerHTML = BPRE.map((p, i) => { const fg = p.inv ? p.color : '#cfc7bc', bg = p.inv ? '#cfc7bc' : p.color;
     return `<button data-i="${i}"><svg viewBox="0 0 100 125" style="background:${bg}"><defs><filter id="tp${i}"><feGaussianBlur stdDeviation="2.4"/></filter></defs><g transform="translate(50 62.5) scale(${p.size || 1}) translate(-50 -62.5)">${shapeSvg(p.sh, fg, bg, 'tp' + i)}</g></svg>${p.name}</button>`; }).join('')
-    + `<button class="save" id="bSave">+ Uložit preset</button>`;
+;
   $$('#bPresets [data-i]').forEach(b => { const pr = BPRE[+b.dataset.i];
     b.onclick = () => { SHAPES.push(JSON.parse(JSON.stringify(pr.sh))); Object.assign(B, { inv: pr.inv, op: pr.op, blend: pr.blend, size: pr.size || 1, dis: pr.dis || 0 });
       if (!B.custom.includes(pr.color)) B.custom.push(pr.color); B.bg = B[B.palMode].length + B.custom.indexOf(pr.color); B.shape = SHAPES.length - 1; renderShapes(); syncBlobCtl(); drawPal(); buzz(6); toast(`Preset ${pr.name}`); };
@@ -2900,7 +2930,7 @@ function diceShape() { // kostka: jeden „náhodný“ slot, náhodný tvar i n
   Object.assign(B, { inv: Math.random() < .3, dis: Math.random() < .35 ? +(.15 + Math.random() * .45).toFixed(2) : 0, blend: rnd(['normal', 'normal', 'screen', 'glow']), size: +(.75 + Math.random() * .3).toFixed(2), bg: Math.floor(Math.random() * 5) });
   renderShapes(); syncBlobCtl(); B.shape = i; $$('#bShapes [data-i]').forEach(x => x.classList.toggle('on', +x.dataset.i === i)); drawPal(); buzz(8);
   spring(.94, 1, v => $('#bCard').style.transform = `scale(${v})`, { k: 300, c: 16 });
-  const btn = $(`#bShapes [data-i="${i}"]`); if (btn) btn.scrollIntoView({ inline: 'nearest', block: 'nearest' });
+  const btn = $(`#bShapes [data-i="${i}"]`), row = $('#bShapes'); if (btn && row) { const l = btn.offsetLeft - row.offsetLeft, r2 = l + btn.offsetWidth; if (l < row.scrollLeft || r2 > row.scrollLeft + row.clientWidth) row.scrollTo({ left: l - row.clientWidth / 2 + btn.offsetWidth / 2, behavior: 'smooth' }); } // jen vodorovně, obrazovka neposkočí
 }
 function drawPal() {
   const pal = [...B[B.palMode], ...B.custom]; B.bg = clamp(B.bg, 0, pal.length - 1);
@@ -2917,7 +2947,7 @@ function drawBlob(path) {
   const inner = path ? `<path class="ms" d="${path}" fill="${fg}"/>` : shapeSvg(sh, fg, bgc), grp = `<g transform="translate(50 62.5) scale(${B.size}) translate(-50 -62.5)">${inner}</g>`;
   const scr = B.blend === 'normal' ? '' : 'style="mix-blend-mode:screen"';
   $('#bSvg').innerHTML = `<defs><filter id="bsoft" x="-20%" y="-20%" width="140%" height="140%"><feGaussianBlur stdDeviation="2.4"/></filter><filter id="bblur" x="-40%" y="-40%" width="180%" height="180%"><feGaussianBlur stdDeviation="6"/></filter>
-    ${B.dis > 0 ? `<filter id="bdis" filterUnits="userSpaceOnUse" x="0" y="0" width="100" height="125"><feGaussianBlur in="SourceGraphic" stdDeviation="${(B.dis * 5).toFixed(2)}" result="b"/><feTurbulence type="fractalNoise" baseFrequency="1.9" numOctaves="2" seed="7" result="n"/><feColorMatrix in="n" type="saturate" values="0" result="g"/><feComposite in="b" in2="g" operator="arithmetic" k1="0" k2="1" k3="${(.5 + B.dis * .9).toFixed(2)}" k4="${(-(.5 + B.dis * .9) / 2).toFixed(2)}" result="m"/><feComponentTransfer in="m"><feFuncR type="linear" slope="14" intercept="-6.5"/><feFuncG type="linear" slope="14" intercept="-6.5"/><feFuncB type="linear" slope="14" intercept="-6.5"/><feFuncA type="linear" slope="0" intercept="1"/></feComponentTransfer></filter>` : ''}
+    ${B.dis > 0 ? `<filter id="bdis" filterUnits="userSpaceOnUse" x="0" y="0" width="100" height="125"><feGaussianBlur in="SourceGraphic" stdDeviation="${(B.dis * 5).toFixed(2)}" result="b"/><feImage href="${noiseUrl()}" x="0" y="0" width="100" height="125" preserveAspectRatio="none" result="g"/><feComposite in="b" in2="g" operator="arithmetic" k1="0" k2="1" k3="${(.5 + B.dis * .9).toFixed(2)}" k4="${(-(.5 + B.dis * .9) / 2).toFixed(2)}" result="m"/><feComponentTransfer in="m"><feFuncR type="linear" slope="14" intercept="-6.5"/><feFuncG type="linear" slope="14" intercept="-6.5"/><feFuncB type="linear" slope="14" intercept="-6.5"/><feFuncA type="linear" slope="0" intercept="1"/></feComponentTransfer></filter>` : ''}
     <mask id="bm" maskUnits="userSpaceOnUse" x="0" y="0" width="100" height="125"><g ${B.dis > 0 ? 'filter="url(#bdis)"' : ''}><rect width="100" height="125" fill="${inv ? '#000' : '#fff'}"/>${grp}</g></mask>
     ${B.blend === 'glow' ? `<mask id="bmg" maskUnits="userSpaceOnUse" x="-30" y="-30" width="160" height="185"><rect x="-30" y="-30" width="160" height="185" fill="${inv ? '#000' : '#fff'}"/><g filter="url(#bblur)">${grp}</g></mask>` : ''}</defs>
     <image href="${B.img}" preserveAspectRatio="none"/>
@@ -2934,12 +2964,18 @@ async function exportBlob() {
   const bg = document.createElementNS('http://www.w3.org/2000/svg', 'rect'); bg.setAttribute('width', 100); bg.setAttribute('height', 125); bg.setAttribute('fill', B.color); svg.insertBefore(bg, svg.querySelector('image'));
   const url = URL.createObjectURL(new Blob([new XMLSerializer().serializeToString(svg)], { type: 'image/svg+xml' })), img = new Image(); img.src = url; await img.decode(); URL.revokeObjectURL(url);
   const W = 1200, H = 1500, c = mk(W, H), g = c.getContext('2d'); g.fillStyle = '#0B0C0E'; g.fillRect(0, 0, W, H);
-  if (B.paper !== false) { g.fillStyle = '#26282D'; for (let y = 30; y < H; y += 30) for (let x = 30; x < W; x += 30) { g.beginPath(); g.arc(x, y, 2.4, 0, 7); g.fill(); } }
+  { g.fillStyle = '#26282D'; for (let y = 30; y < H; y += 30) for (let x = 30; x < W; x += 30) { g.beginPath(); g.arc(x, y, 2.4, 0, 7); g.fill(); } }
   g.save(); g.beginPath(); g.roundRect(60, 75, 1080, 1350, 44); g.clip(); g.drawImage(img, 60, 75, 1080, 1350);
   await document.fonts.ready; g.fillStyle = getComputedStyle($('#bLbl')).getPropertyValue('--lc') || 'rgba(255,250,240,.88)'; g.font = '500 30px "Geist Mono", monospace'; g.textBaseline = 'alphabetic';
-  g.fillText($('#bL').textContent, 60 + 44, 75 + 1350 - 40); g.textAlign = 'right'; g.fillText($('#bR').textContent, 60 + 1080 - 44, 75 + 1350 - 40); g.restore();
+  if (B.text !== false) { g.fillText($('#bL').textContent, 60 + 44, 75 + 1350 - 40); g.textAlign = 'right'; g.fillText($('#bR').textContent, 60 + 1080 - 44, 75 + 1350 - 40); } g.restore();
   exportCanvas(c, `qamera-karta-${Date.now()}.jpg`);
 }
+/* šum pro dissolve jako obrázek – feTurbulence v Safari občas vykreslil jen část (pruh vpravo) */
+let NOISE = null;
+function noiseUrl() { if (NOISE) return NOISE; const W = 400, H = 500, c = mk(W, H), g = c.getContext('2d'), id = g.createImageData(W, H), a = new Float32Array(W * H);
+  for (let i = 0; i < a.length; i++) a[i] = Math.random();
+  for (let y = 0; y < H; y++) for (let x = 0; x < W; x++) { const i = y * W + x, v = (a[i] * 2 + a[y * W + (x + 1) % W] + a[((y + 1) % H) * W + x]) / 4; id.data[i * 4] = id.data[i * 4 + 1] = id.data[i * 4 + 2] = v * 255; id.data[i * 4 + 3] = 255; }
+  g.putImageData(id, 0, 0); return NOISE = c.toDataURL('image/png'); }
 function placeImg() { const im = $('#bSvg image'); if (!im) return; const w = Math.max(100, 125 * B.ar) * B.sc, h = w / B.ar;
   im.setAttribute('x', 50 - w / 2 + B.ox); im.setAttribute('y', 62.5 - h / 2 + B.oy); im.setAttribute('width', w); im.setAttribute('height', h); }
 let morphSp = null;
@@ -3142,6 +3178,8 @@ function boot2(h) {
     toast(!S.flash ? 'Blesk vypnutý' : CAM.live ? (CAM.caps.torch ? 'Blesk: svítilna telefonu' : CAM.facing === 'user' ? 'Blesk: rozsvícený displej' : 'Tenhle prohlížeč svítilnu nepustí') : 'Blesk zapnutý'); };
   $('#tFlip').onclick = async () => { const vf = $('#vf'); spring(0, 1, v => vf.style.transform = `perspective(900px) rotateY(${Math.sin(v * Math.PI) * 12}deg) scale(${1 - Math.sin(v * Math.PI) * .05})`, { k: 120, c: 16 }); buzz(5);
     if (CAM.live) { CAM.facing = CAM.facing === 'user' ? 'environment' : 'user'; CAM.deviceId = null; CAM.ultra = false; await liveOn(); } else LIVE.facing = LIVE.facing === 'back' ? 'front' : 'back'; };
+  $('#camPill').innerHTML = iconSVG('camera') + 'Zapnout kameru'; $('#camPill').onclick = async () => { store.set('camAsked', true); updLive(); if (await liveOn()) toast('Živá kamera s filmem ' + S.film); };
+  updLive();
   $('#liveBtn').onclick = async () => { if (CAM.live) { liveOff(); toast('DEMO: generovaná scéna'); } else if (await liveOn()) toast('Živá kamera s filmem ' + S.film); };
   $$('#zoomGrp button').forEach(b => b.onclick = () => setZoom(+b.dataset.z));
   $('#lMode').onclick = () => { if (!S.timeIdx) { toast('Dlouhá expozice: táhni prstem v hledáčku doprava nebo otoč kolečko času'); return; } S.slowMode = (S.slowMode + 1) % 3; updLcd(); buzz(5);
@@ -3188,8 +3226,8 @@ function boot2(h) {
   cropGestures();
   // blob
   $('#bRand').onclick = diceShape;
-  $$('#bPalSeg button').forEach(b => b.onclick = () => { B.palMode = b.dataset.p; $$('#bPalSeg button').forEach(x => x.classList.toggle('on', x === b)); drawPal(); });
-  $('#bPaper').onclick = () => { B.paper = !B.paper; $('#s-blob').style.backgroundImage = B.paper ? '' : 'none'; $('#bPaper').textContent = 'Tečky: ' + (B.paper ? 'zap' : 'vyp'); };
+
+  $('#bText').onclick = () => { B.text = B.text === false; $('#bLbl').style.visibility = B.text ? '' : 'hidden'; $('#bText').textContent = 'Text: ' + (B.text ? 'zap' : 'vyp'); buzz(4); };
   $('#bShare').onclick = exportBlob;
   blobGestures(); hscroll($('#bShapes')); hscroll($('#rolls')); hscroll($('#pcStrip'));
   // o appce

diff --git a/sw.js b/sw.js
@@ -1,5 +1,5 @@
 /* Qamera service worker – appka funguje i offline. Po větší změně zvýšit VERSION, ať se telefonům stáhne nová verze. */
-const VERSION = 'qamera-0.7.0';
+const VERSION = 'qamera-0.7.1';
 const SHELL = ['./', './docs/preview/', './docs/preview/index.html', './manifest.webmanifest', './icons/icon.svg', './icons/icon-192.png', './icons/apple-touch-icon.png', './luts/films.json'];
 
 self.addEventListener('install', e => {
